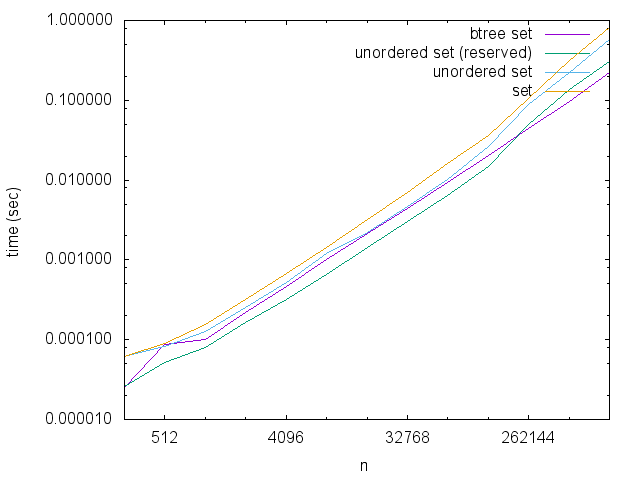
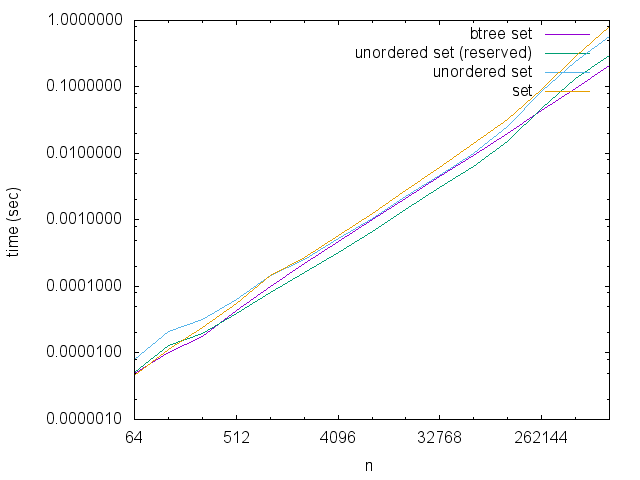
Final version.

diff --git a/sequential_insert.cpp b/sequential_insert.cpp
@@ -27,7 +27,7 @@ Duration SequentialInsertTest(IntegerSet set, int n, int k = 32) {
 }
 
 int main() {
-  for (int n = 256; n <= 1024 * 1024; n += n) {
+  for (int n = 64; n <= 1024 * 1024; n += n) {
     std::set<int> set;
     std::unordered_set<int> unordered_set_reserved;
     std::unordered_set<int> unordered_set;

diff --git a/random_insert.cpp b/random_insert.cpp
@@ -30,7 +30,7 @@ Duration RandomInsertTest(IntegerSet set, int n, int k = 32) {
 }
 
 int main() {
-  for (int n = 256; n <= 1024 * 1024; n += n) {
+  for (int n = 64; n <= 1024 * 1024; n += n) {
     std::set<int> set;
     std::unordered_set<int> unordered_set_reserved;
     std::unordered_set<int> unordered_set;

diff --git a/random_insert_16384.cpp b/random_insert_16384.cpp
@@ -30,7 +30,7 @@ Duration RandomInsertTest(IntegerSet set, int n, int k = 32) {
 }
 
 int main() {
-  for (int n = 256; n <= 1024 * 1024; n += n) {
+  for (int n = 64; n <= 1024 * 1024; n += n) {
     std::set<int> set;
     std::unordered_set<int> unordered_set_reserved;
     std::unordered_set<int> unordered_set;
